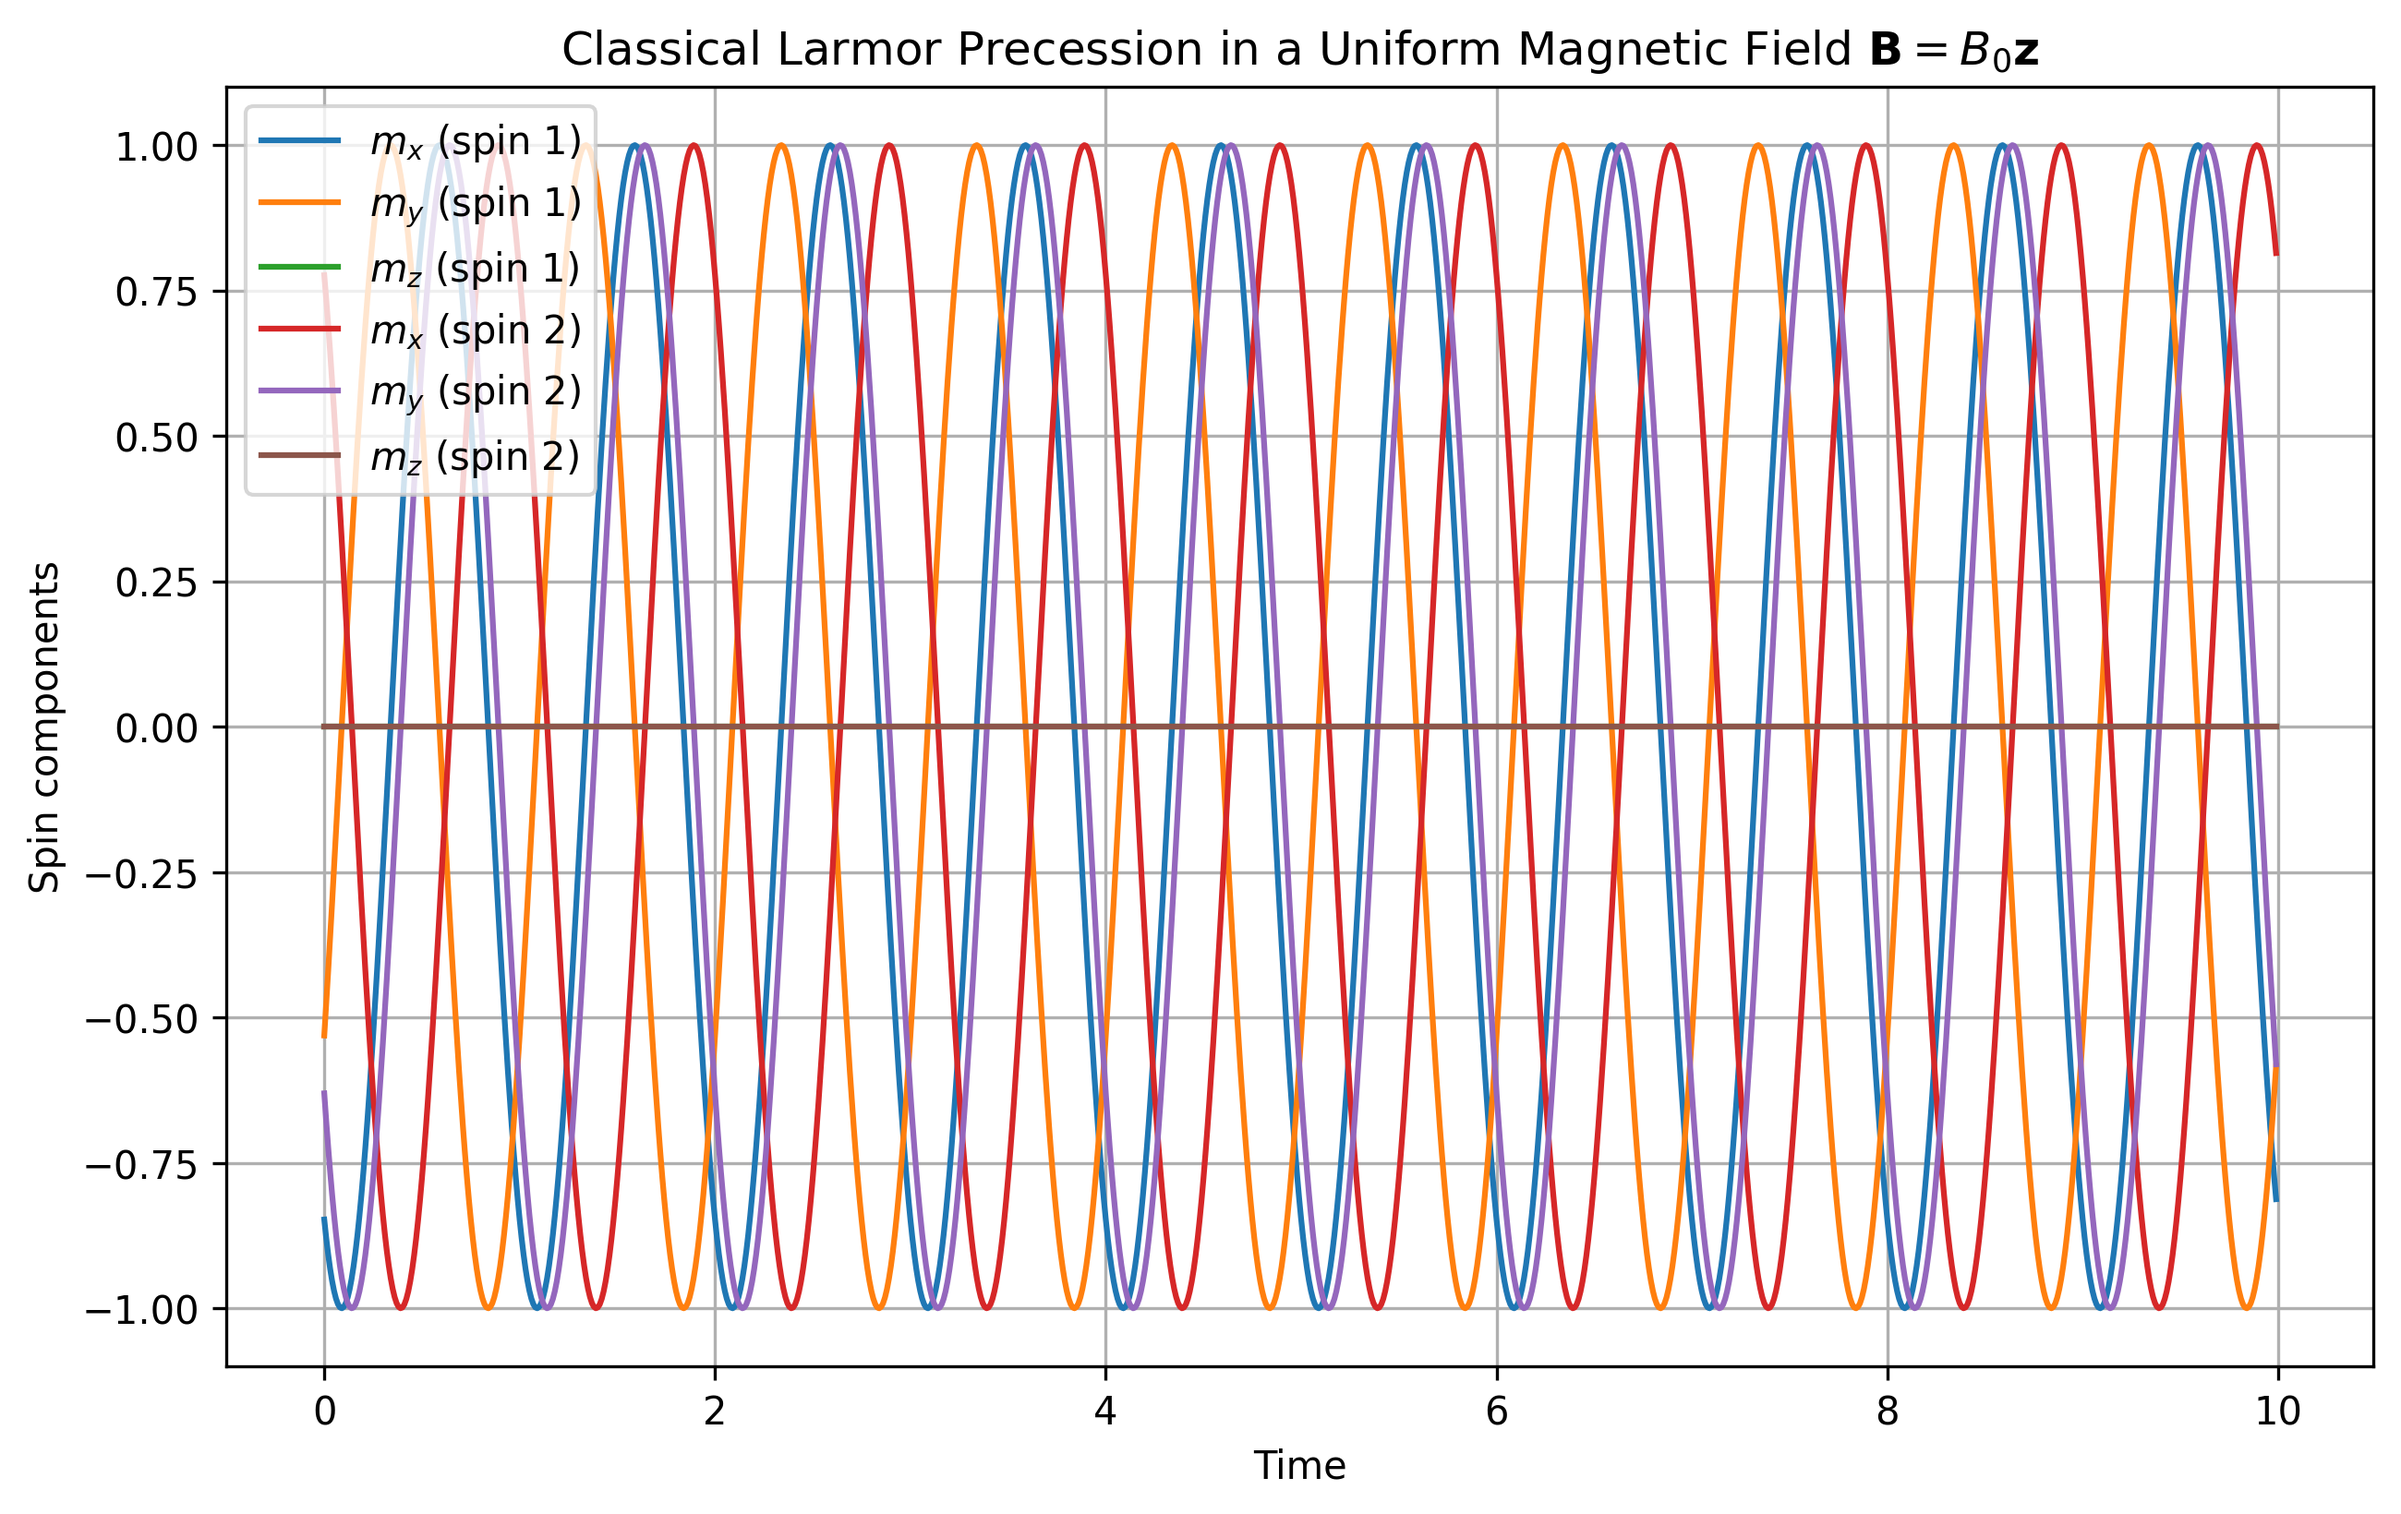
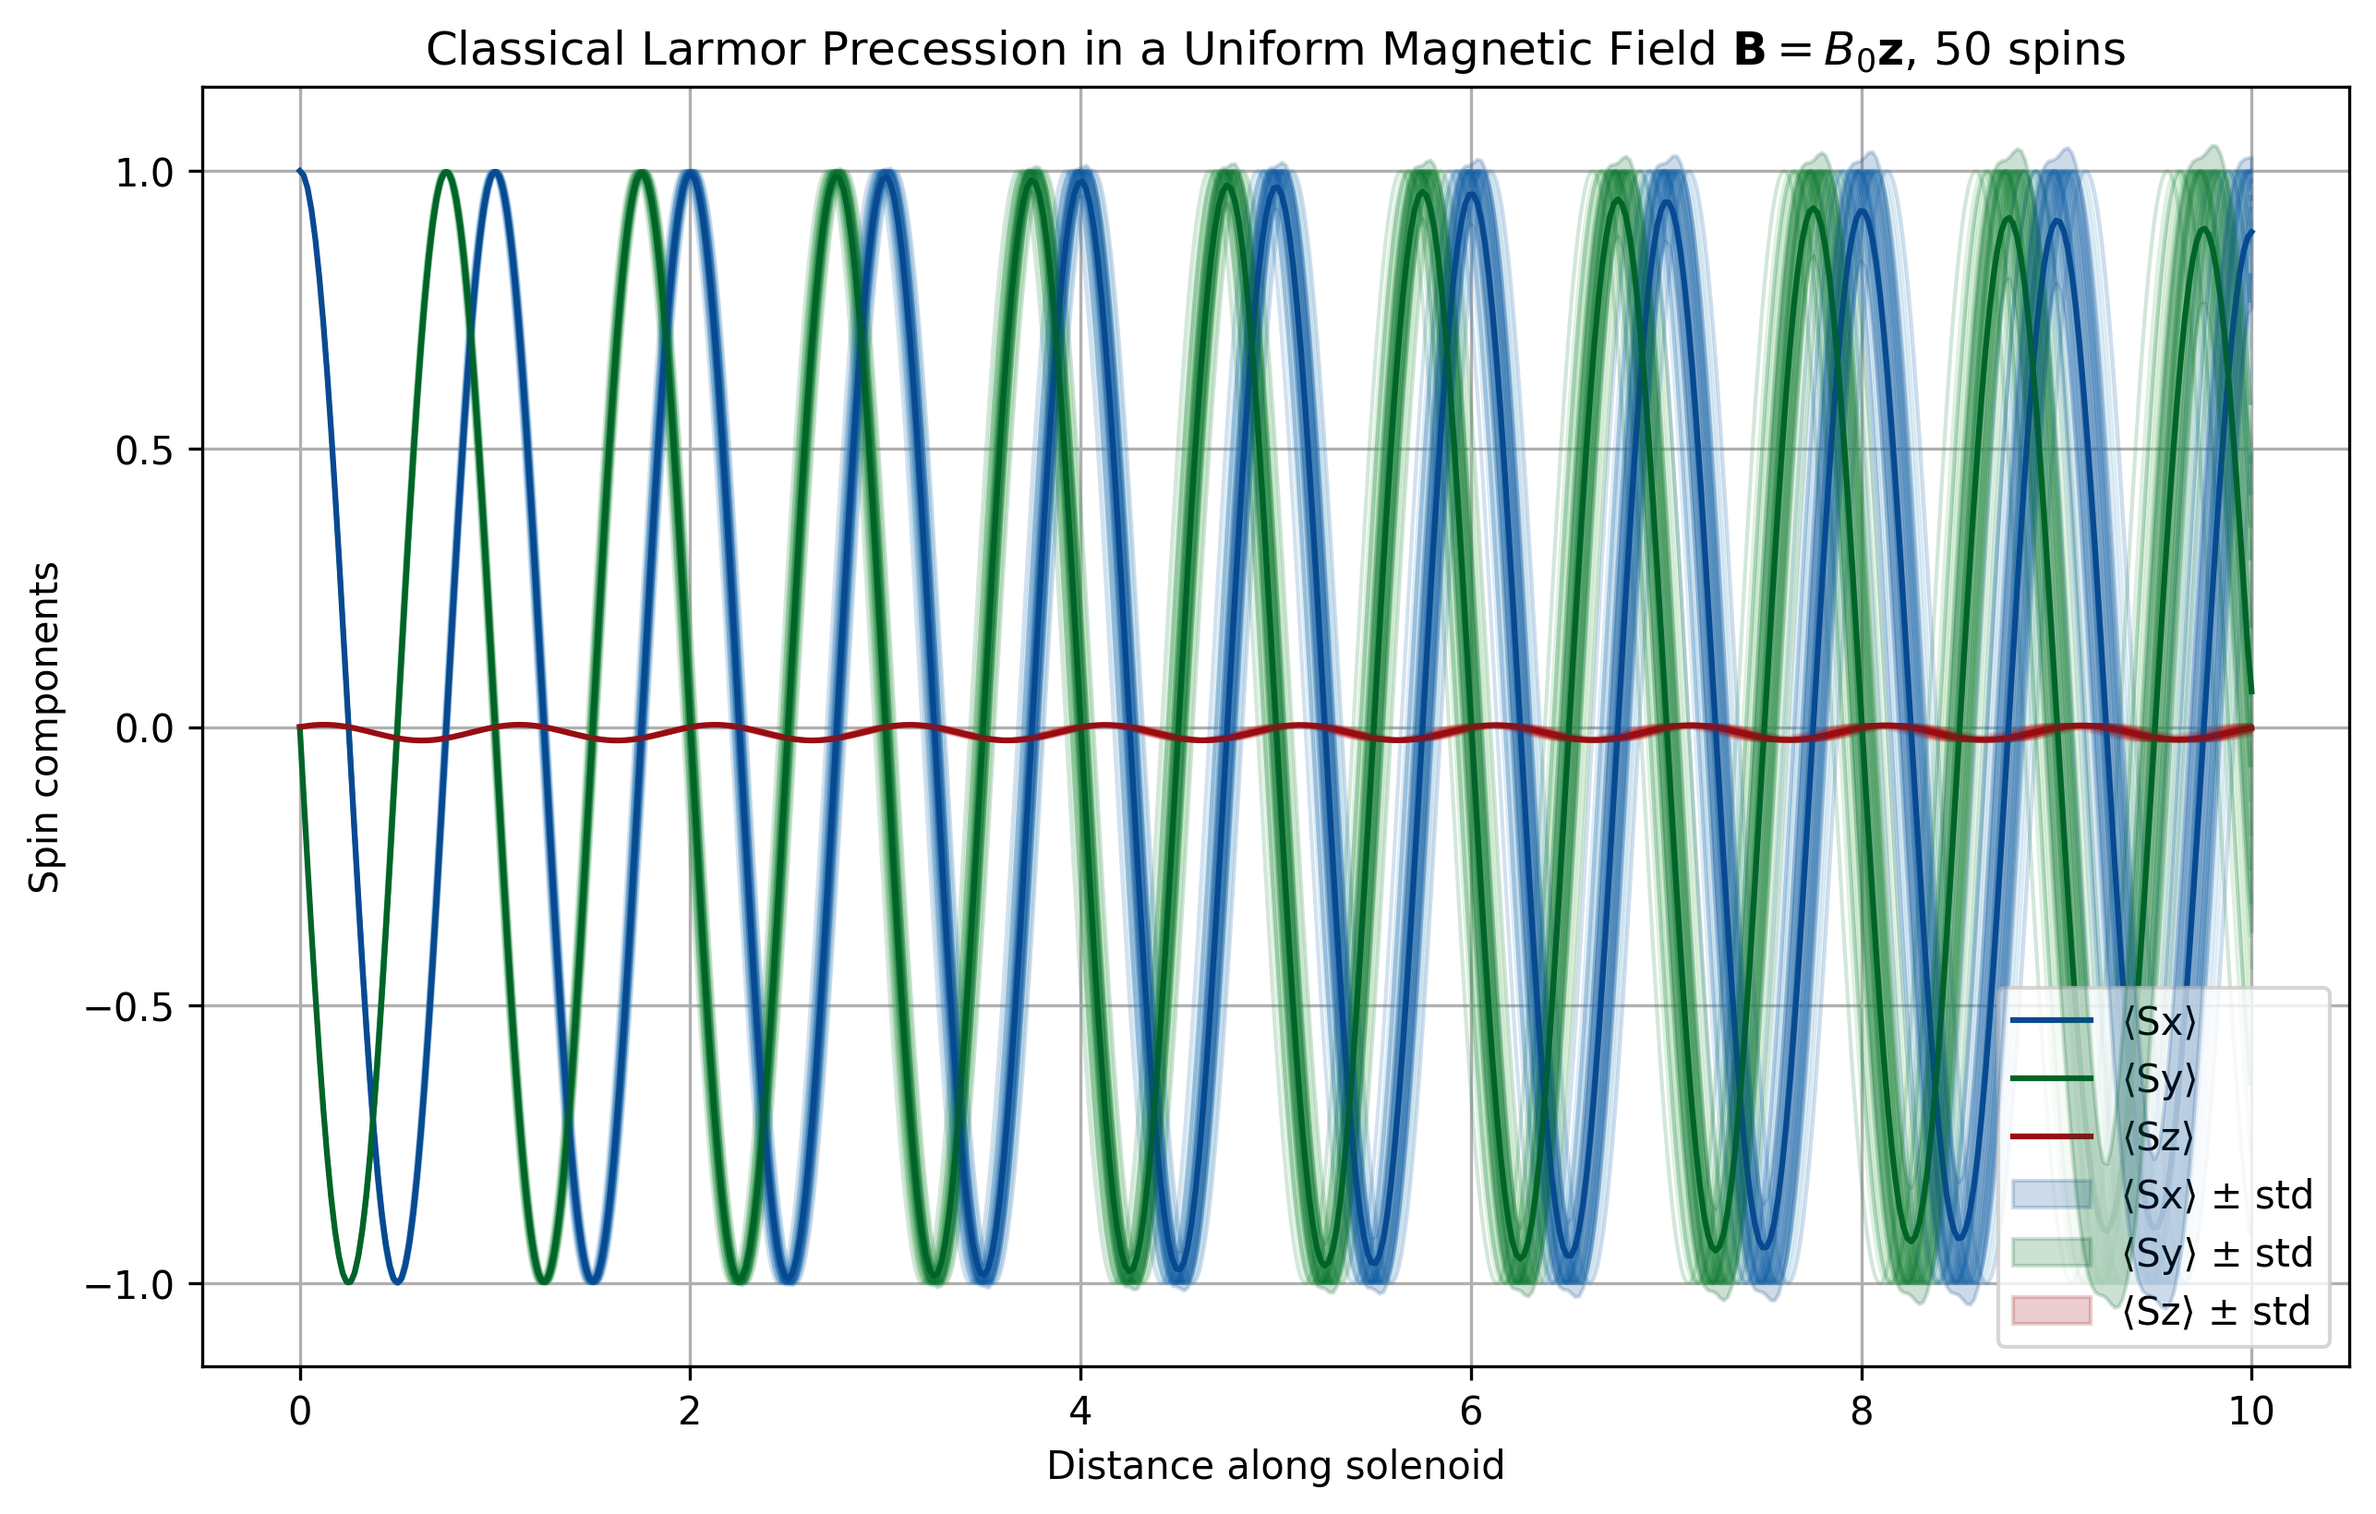
Added input velocity distribution

diff --git a/spinecho_sim/classical_solenoid_test.py b/spinecho_sim/classical_solenoid_test.py
@@ -13,7 +13,7 @@ gyromagnetic_ratio = 2.0 * np.pi * 1.0  # gyromagnetic ratio (rad s^-1 T^-1)
 
 
 # -- helper: sample N uniform directions on the unit sphere --
-def sample_unit_sphere(n: int) -> NDArray[np.floating[Any]]:
+def sample_s_unit_sphere(n: int) -> NDArray[np.floating[Any]]:
     """Sample N uniform random directions on the unit sphere.
 
     Returns
@@ -28,7 +28,7 @@ def sample_unit_sphere(n: int) -> NDArray[np.floating[Any]]:
 
 
 # -- helper: sample N uniform directions on the unit sphere --
-def sample_unit_circle(n: int) -> NDArray[np.floating[Any]]:
+def sample_s_unit_circle(n: int) -> NDArray[np.floating[Any]]:
     """Sample N uniform random directions on the unit circle normal to z-axis.
 
     Returns
@@ -38,6 +38,64 @@ def sample_unit_circle(n: int) -> NDArray[np.floating[Any]]:
     """
     phi: NDArray[np.floating[Any]] = np.random.uniform(0, 2 * np.pi, size=n)
     return np.stack([np.cos(phi), np.sin(phi), np.zeros_like(phi)], axis=1)
+
+
+# -- helper: sample N uniform directions on the unit sphere --
+def sample_s_uniform(
+    n: int, spin: NDArray[np.floating[Any]]
+) -> NDArray[np.floating[Any]]:
+    """Return an array of shape (n, 3) where each row is the given spin vector.
+
+    Parameters
+    ----------
+    n : int
+        Number of samples to generate.
+    spin : NDArray[np.floating[Any]]
+        The spin vector to replicate.
+
+    Returns
+    -------
+    NDArray[np.floating[Any]]
+        An array of shape (n, 3) containing copies of the spin vector.
+    """
+    return np.tile(spin, (n, 1))
+
+
+def sample_boltzmann_velocities(
+    n: int, temp: float, mass: float
+) -> NDArray[np.floating[Any]]:
+    k_b = 1  # 1.380649e-23  # Boltzmann constant (J/K)
+
+    def f(
+        v: NDArray[np.floating[Any]], temp: float, mass: float
+    ) -> NDArray[np.floating[Any]]:
+        return (
+            4
+            * np.pi
+            * v**2
+            * (mass / (2 * np.pi * k_b * temp)) ** (3 / 2)
+            * np.exp(-mass * v**2 / (2 * k_b * temp))
+        )
+
+    # Use the Maxwell-Boltzmann distribution to sample speeds
+    v_max: float = (
+        np.sqrt(8 * k_b * temp / (np.pi * mass)) * 5
+    )  # upper limit for speeds
+    v: NDArray[np.floating[Any]] = np.linspace(0, v_max, 1000)
+    cdf = np.cumsum(f(v, temp, mass))
+    cdf /= cdf[-1]
+    rng = np.random.default_rng()
+    random_values = rng.random(n)
+    sampled_indices = np.searchsorted(cdf, random_values)
+    return v[sampled_indices]
+
+
+def sample_gaussian_velocities(
+    n: int, mu: float, sigma: float
+) -> NDArray[np.floating[Any]]:
+    # Use numpy to sample from a normal (Gaussian) distribution directly
+    rng = np.random.default_rng()
+    return rng.normal(loc=mu, scale=sigma, size=n)
 
 
 class SolenoidSimulator:
@@ -74,10 +132,12 @@ class SolenoidSimulator:
 
     def run(
         self,
-    ) -> tuple[NDArray[np.floating[Any]], NDArray[np.floating[Any]]]:
+    ) -> tuple[list[np.ndarray], NDArray[np.floating[Any]]]:
         """Run the spin echo simulation using configured parameters."""
         # Extract parameters with explicit type casting
-        velocity: float = float(self.parameters.get("velocity", 1.0))
+        velocity: NDArray[np.floating[Any]] = np.array(
+            self.parameters.get("velocity", 1.0)
+        )
         field: NDArray[np.floating[Any]] = np.array(
             self.parameters.get("field", [0.0, 0.0, 1.0])
         )
@@ -89,23 +149,34 @@ class SolenoidSimulator:
 
         n: int = len(init_spin)
 
-        # Time array based on velocity and length
-        t: NDArray[np.floating[Any]] = np.arange(0, length / velocity, time_step)
-
-        # Initialize spin vector array (3D vectors over time)
-        s: NDArray[np.floating[Any]] = np.zeros((len(t), n, 3))
-        s[0] = init_spin  # Set initial spin state
+        # Distance and time arrays based on velocity and length
+        # Create a separate distance array for each particle with its own velocity
+        dist = [np.arange(0, length, time_step * v) for v in velocity]
+        [
+            d / v for d, v in zip(dist, velocity, strict=False)
+        ]  # time array for each particle
 
         # Differential equation dS/dt = gamma * S x B
         def ds_dt(s_vec: NDArray[np.floating[Any]]) -> NDArray[np.floating[Any]]:
             return gyromagnetic_ratio * np.cross(s_vec, field)
 
-        # Integrate using 4th-order Runge-Kutta
-        for i in range(len(t) - 1):
-            k1 = ds_dt(s[i])
-            k2 = ds_dt(s[i] + 0.5 * time_step * k1)
-            k3 = ds_dt(s[i] + 0.5 * time_step * k2)
-            k4 = ds_dt(s[i] + time_step * k3)
-            s[i + 1] = s[i] + (time_step / 6.0) * (k1 + 2 * k2 + 2 * k3 + k4)
+        # Find the maximum number of time steps among all spins
+        max_steps = max(len(d) for d in dist)
 
-        return t, s
+        # Initialize spin vector array (3D vectors over time)
+        s: NDArray[np.floating[Any]] = np.zeros((n, max_steps, 3))
+
+        # Integrate using 4th-order Runge-Kutta
+        for spin_idx in range(n):
+            num_steps = len(dist[spin_idx])
+            s[spin_idx, 0] = init_spin[spin_idx]  # Set initial spin state
+            for i in range(num_steps - 1):
+                k1 = ds_dt(s[spin_idx, i])
+                k2 = ds_dt(s[spin_idx, i] + 0.5 * time_step * k1)
+                k3 = ds_dt(s[spin_idx, i] + 0.5 * time_step * k2)
+                k4 = ds_dt(s[spin_idx, i] + time_step * k3)
+                s[spin_idx, i + 1] = s[spin_idx, i] + (time_step / 6.0) * (
+                    k1 + 2 * k2 + 2 * k3 + k4
+                )
+
+        return dist, s

diff --git a/examples/placholder_example.py b/examples/placholder_example.py
@@ -1,35 +1,126 @@
 from __future__ import annotations
 
 import matplotlib.pyplot as plt
+import numpy as np
 
 from spinecho_sim import SolenoidSimulator
-from spinecho_sim.classical_solenoid_test import sample_unit_circle
+from spinecho_sim.classical_solenoid_test import (
+    sample_gaussian_velocities,
+    sample_s_uniform,
+)
 
 if __name__ == "__main__":
     print("Example placeholder script for spinecho simulation.")
     sim_params = {
-        "velocity": 1.0,
-        "field": [0.0, 0.0, 1.0],
+        # "velocity": sample_boltzmann_velocities(50, 1.0, 1.0),
+        "velocity": sample_gaussian_velocities(50, 1.0, 0.008),
+        "field": [-0.01, 0.01, 1.0],
         "time_step": 0.01,
         "length": 10.0,
-        "init_spin": sample_unit_circle(2),  # Sample a random initial spin direction
+        "init_spin": sample_s_uniform(50, np.array([1.0, 0.0, 0.0])),
     }
     sim = SolenoidSimulator(sim_params)
-    t, s = sim.run()
+    z, s = sim.run()
 
     fig, ax = plt.subplots(figsize=(10, 6))
 
     # s is assumed to be (num_timesteps, num_spins, 3)
-    num_spins = s.shape[1]
-    for spin_idx in range(num_spins):
-        ax.plot(t, s[:, spin_idx, 0], label=rf"$m_x$ (spin {spin_idx + 1})")
-        ax.plot(t, s[:, spin_idx, 1], label=rf"$m_y$ (spin {spin_idx + 1})")
-        ax.plot(t, s[:, spin_idx, 2], label=rf"$m_z$ (spin {spin_idx + 1})")
+    num_spins = s.shape[0]
 
-    ax.set_xlabel("Time")
+    # Assign a distinct colormap for each spin component
+
+    colormaps = [
+        plt.cm.Blues,  # For Sx
+        plt.cm.Greens,  # For Sy
+        plt.cm.Reds,  # For Sz
+    ]
+    # For each component, generate a set of shades for all spins
+    component_colors = [cmap(np.linspace(0.3, 0.9, num_spins)) for cmap in colormaps]
+
+    # Choose a common z-grid
+    Nz = 500  # number of distance bins you want
+    z_grid = np.linspace(0, sim_params.get("length"), Nz)
+
+    # Interpolate each spin’s components onto that z-grid, You'll end up with shape (Nz, Nspins, 3)
+    S_on_z = np.empty((Nz, num_spins, 3))
+
+    for spin_idx in range(num_spins):
+        # Get the number of time steps for this spin
+        n_steps = len(z[spin_idx])
+        # Plot only the valid segment for this spin
+        ax.plot(
+            z[spin_idx],
+            s[spin_idx, :n_steps, 0],
+            # label=rf"$m_x$ (spin {spin_idx + 1})",
+            linewidth=1.0,
+            alpha=0.2,
+            color=component_colors[0][spin_idx],
+        )
+        ax.plot(
+            z[spin_idx],
+            s[spin_idx, :n_steps, 1],
+            # label=rf"$m_y$ (spin {spin_idx + 1})",
+            linewidth=1.0,
+            alpha=0.2,
+            color=component_colors[1][spin_idx],
+        )
+        ax.plot(
+            z[spin_idx],
+            s[spin_idx, :n_steps, 2],
+            # label=rf"$m_z$ (spin {spin_idx + 1})",
+            linewidth=1.0,
+            alpha=0.2,
+            color=component_colors[2][spin_idx],
+        )
+
+        # for each component separately:
+        for comp in range(3):
+            S_on_z[:, spin_idx, comp] = np.interp(
+                z_grid,  # the x-coordinates where to interpolate
+                z[spin_idx],  # each spin’s sampled distances
+                s[spin_idx, :n_steps, comp],  # the values to interpolate
+            )
+
+    S_avg = S_on_z.mean(axis=1)  # shape (Nz, 3)
+    S_std = S_on_z.std(axis=1)  # if you want error-bars
+
+    ax.plot(z_grid, S_avg[:, 0], label="⟨Sx⟩", color=component_colors[0][spin_idx])
+    ax.plot(z_grid, S_avg[:, 1], label="⟨Sy⟩", color=component_colors[1][spin_idx])
+    ax.plot(z_grid, S_avg[:, 2], label="⟨Sz⟩", color=component_colors[2][spin_idx])
+    # Plot fill_between for Sx, Sy, Sz above all previous plots by setting higher zorder
+    ax.fill_between(
+        z_grid,
+        S_avg[:, 0] - S_std[:, 0],
+        S_avg[:, 0] + S_std[:, 0],
+        alpha=0.2,
+        zorder=10,
+        label="⟨Sx⟩ ± std",
+        color=component_colors[0][spin_idx],
+    )
+    ax.fill_between(
+        z_grid,
+        S_avg[:, 1] - S_std[:, 1],
+        S_avg[:, 1] + S_std[:, 1],
+        alpha=0.2,
+        zorder=10,
+        label="⟨Sy⟩ ± std",
+        color=component_colors[1][spin_idx],
+    )
+    ax.fill_between(
+        z_grid,
+        S_avg[:, 2] - S_std[:, 2],
+        S_avg[:, 2] + S_std[:, 2],
+        alpha=0.2,
+        zorder=10,
+        label="⟨Sz⟩ ± std",
+        color=component_colors[2][spin_idx],
+    )
+
+    ax.set_xlabel("Distance along solenoid")
     ax.set_ylabel("Spin components")
     ax.set_title(
-        r"Classical Larmor Precession in a Uniform Magnetic Field $\mathbf{B}=B_0 \mathbf{z}$"
+        r"Classical Larmor Precession in a Uniform Magnetic Field $\mathbf{B}=B_0 \mathbf{z}$,"
+        f" {num_spins} spins"
     )
     ax.legend()
     ax.grid(visible=True)
